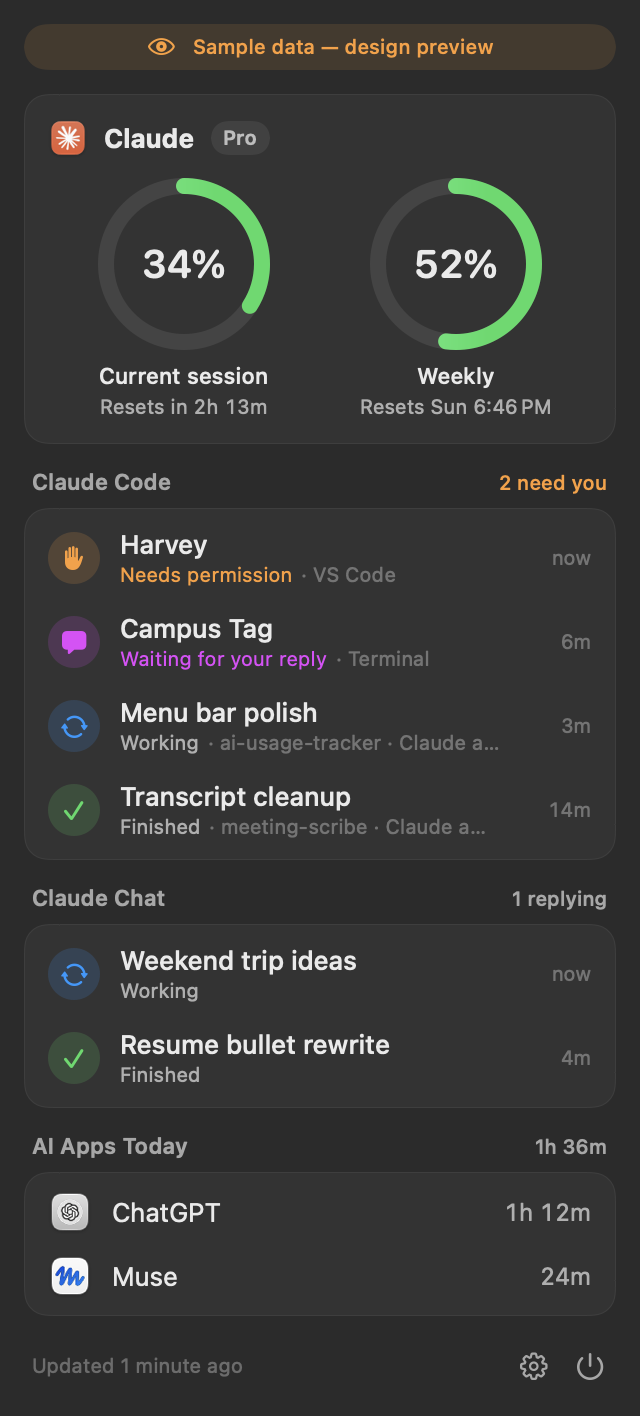
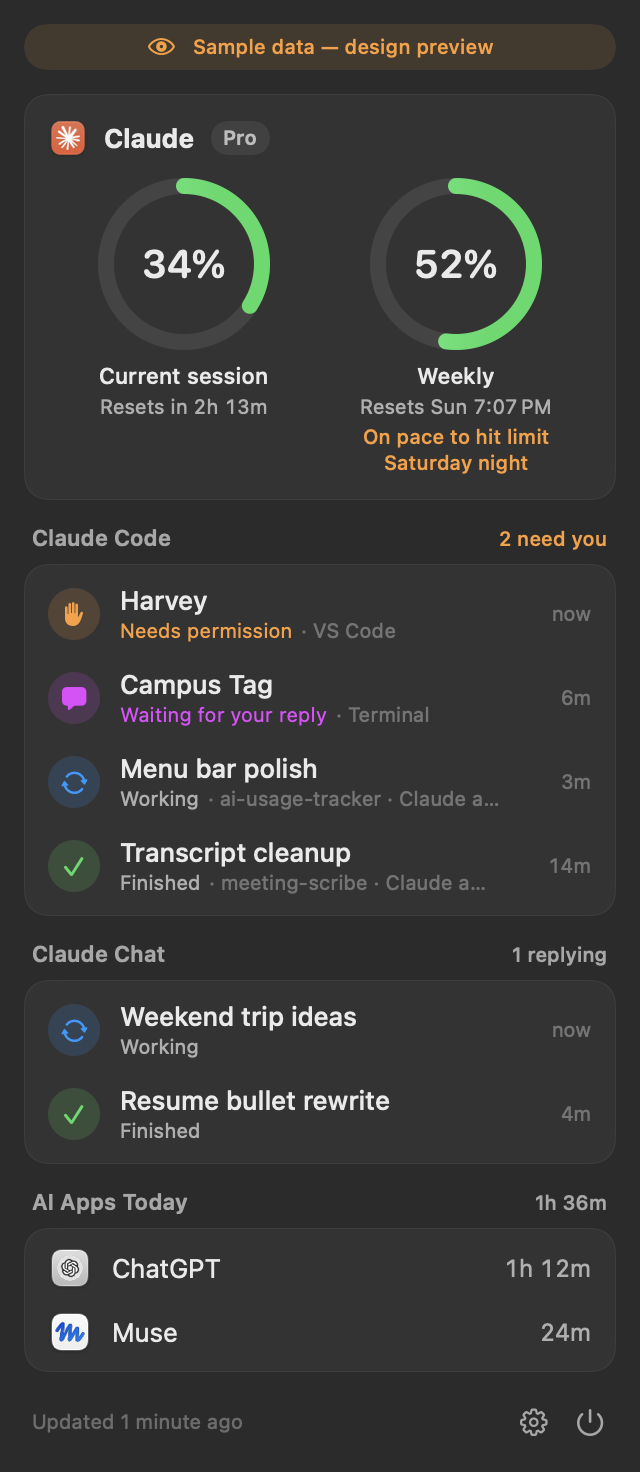
Weekly pace line under the weekly ring
Projects the average rate so far this week to the reset: 'On pace to last
until reset' (green) or 'On pace to hit limit Friday evening' (orange).
Quiet in the first 12 hours of the week and once at the limit. The math is
in UsagePace with its own checks.

diff --git a/Sources/AIUsageTracker/Dashboard/UsagePanel.swift b/Sources/AIUsageTracker/Dashboard/UsagePanel.swift
@@ -128,8 +128,10 @@ private struct ClaudeLimitCard: View {
                     LimitRing(
                         title: "Weekly",
                         window: weekly,
-                        resetText: { "Resets \($0.formatted(.dateTime.weekday(.abbreviated).hour().minute()))" }
+                        resetText: { "Resets \($0.formatted(.dateTime.weekday(.abbreviated).hour().minute()))" },
+                        paceText: { now in PaceLine(weekly, now: now) }
                     )
+                    .help("The pace line assumes you keep using Claude at your average rate so far this week")
                 }
             }
 
@@ -150,6 +152,8 @@ private struct LimitRing: View {
     let title: String
     let window: DashboardModel.ClaudeLimit.Window
     let resetText: (Date) -> String
+    /// An optional extra line under the reset time (the weekly pace).
+    var paceText: ((Date) -> PaceLine?)? = nil
 
     var body: some View {
         VStack(spacing: 10) {
@@ -157,11 +161,20 @@ private struct LimitRing: View {
             VStack(spacing: 2) {
                 Text(title)
                     .font(.subheadline.weight(.medium))
-                TimelineView(.everyMinute) { _ in
-                    Text(window.resetsAt.map(resetText) ?? "Not started yet")
-                        .font(.caption)
-                        .foregroundStyle(.secondary)
-                        .monospacedDigit()
+                TimelineView(.everyMinute) { context in
+                    VStack(spacing: 2) {
+                        Text(window.resetsAt.map(resetText) ?? "Not started yet")
+                            .font(.caption)
+                            .foregroundStyle(.secondary)
+                            .monospacedDigit()
+                        if let pace = paceText?(context.date) {
+                            Text(pace.text)
+                                .font(.caption.weight(.medium))
+                                .foregroundStyle(pace.tint)
+                                .multilineTextAlignment(.center)
+                                .fixedSize(horizontal: false, vertical: true)
+                        }
+                    }
                 }
             }
         }
@@ -222,6 +235,46 @@ private struct MessageCard<Actions: View>: View {
 extension MessageCard where Actions == EmptyView {
     init(symbol: String?, title: String, detail: String?) {
         self.init(symbol: symbol, title: title, detail: detail) { EmptyView() }
+    }
+}
+
+/// The weekly pace in words: "On pace to last until reset" (green) or
+/// "On pace to hit limit Friday morning" (orange).
+struct PaceLine {
+    let text: String
+    let tint: Color
+
+    init?(_ window: DashboardModel.ClaudeLimit.Window, now: Date) {
+        switch UsagePace.project(percent: window.percent, resetsAt: window.resetsAt, now: now) {
+        case nil:
+            return nil
+        case .onTrack?:
+            text = "On pace to last until reset"
+            tint = .green
+        case .willHitLimit(let date)?:
+            text = "On pace to hit limit \(Self.friendlyTime(date, now: now))"
+            tint = .orange
+        }
+    }
+
+    /// "this afternoon", "tomorrow morning", "Friday evening", "early Saturday".
+    static func friendlyTime(_ date: Date, now: Date, calendar: Calendar = .current) -> String {
+        let hour = calendar.component(.hour, from: date)
+        let part = switch hour {
+        case 5..<12: "morning"
+        case 12..<17: "afternoon"
+        case 17..<21: "evening"
+        default: "night"
+        }
+        if hour < 5 {
+            // Small hours read better as "early Saturday" than "Saturday night".
+            if calendar.isDate(date, inSameDayAs: now) { return "early this morning" }
+            if calendar.isDateInTomorrow(date) { return "early tomorrow" }
+            return "early \(date.formatted(.dateTime.weekday(.wide)))"
+        }
+        if calendar.isDate(date, inSameDayAs: now) { return part == "night" ? "tonight" : "this \(part)" }
+        if calendar.isDateInTomorrow(date) { return "tomorrow \(part)" }
+        return "\(date.formatted(.dateTime.weekday(.wide))) \(part)"
     }
 }
 

diff --git a/Tests/PaceCheck/main.swift b/Tests/PaceCheck/main.swift
@@ -1,0 +1,45 @@
+// Checks for UsagePace's weekly projection. Run with ./scripts/test.sh
+
+import Foundation
+
+var failures = 0
+@MainActor func check(_ name: String, _ ok: Bool, _ detail: String) {
+    if !ok { failures += 1 }
+    print("\(ok ? "PASS" : "FAIL")  \(name)  (\(detail))")
+}
+
+let now = Date(timeIntervalSince1970: 1_800_000_000)
+let day: TimeInterval = 24 * 3600
+func resets(inDays days: Double) -> Date { now.addingTimeInterval(days * day) }
+
+// Halfway through the week at 40% → about 80% by reset.
+let half = UsagePace.project(percent: 40, resetsAt: resets(inDays: 3.5), now: now)
+if case .onTrack(let p)? = half {
+    check("halfway at 40% is on track for 80%", abs(p - 80) < 0.01, "projected \(p)")
+} else { check("halfway at 40% is on track for 80%", false, "\(String(describing: half))") }
+
+// Halfway through at 60% → would hit 100% two-thirds of the way through the rest.
+let hot = UsagePace.project(percent: 60, resetsAt: resets(inDays: 3.5), now: now)
+if case .willHitLimit(let at)? = hot {
+    let hours = at.timeIntervalSince(now) / 3600
+    // 60% over 84h = 0.714%/h; 40% more takes 56h.
+    check("halfway at 60% hits the limit in 56 hours", abs(hours - 56) < 0.01, "\(hours)h")
+} else { check("halfway at 60% hits the limit in 56 hours", false, "\(String(describing: hot))") }
+
+// Exactly on pace for 100% at reset counts as hitting it (at reset time).
+let edge = UsagePace.project(percent: 50, resetsAt: resets(inDays: 3.5), now: now)
+if case .willHitLimit(let at)? = edge {
+    check("50% at halfway hits the limit right at reset", abs(at.timeIntervalSince(resets(inDays: 3.5))) < 1, "at reset")
+} else { check("50% at halfway hits the limit right at reset", false, "\(String(describing: edge))") }
+
+check("says nothing in the first 12 hours",
+      UsagePace.project(percent: 30, resetsAt: resets(inDays: 6.8), now: now) == nil, "nil")
+check("says nothing once at the limit",
+      UsagePace.project(percent: 100, resetsAt: resets(inDays: 2), now: now) == nil, "nil")
+check("says nothing before the window starts",
+      UsagePace.project(percent: 0, resetsAt: nil, now: now) == nil, "nil")
+check("zero usage is on track for 0%",
+      UsagePace.project(percent: 0, resetsAt: resets(inDays: 3), now: now) == .onTrack(projectedPercent: 0), "0%")
+
+print(failures == 0 ? "\nAll checks passed." : "\n\(failures) check(s) failed.")
+exit(failures == 0 ? 0 : 1)

diff --git a/Sources/AIUsageTracker/ClaudeLimit/UsagePace.swift b/Sources/AIUsageTracker/ClaudeLimit/UsagePace.swift
@@ -1,0 +1,34 @@
+import Foundation
+
+/// Projects the weekly limit forward: if you keep using Claude at the same average rate
+/// as so far this week, where will you be when it resets?
+///
+/// Pure math, no macOS calls, so the rule can be checked on its own (see Tests/PaceCheck).
+enum UsagePace: Equatable {
+    /// Your usage at reset if the current rate continues (under 100).
+    case onTrack(projectedPercent: Double)
+    /// At the current rate you'd reach 100% at this time, before the limit resets.
+    case willHitLimit(at: Date)
+
+    /// The weekly window's length.
+    static let weekLength: TimeInterval = 7 * 24 * 3600
+    /// Too early in the week to say anything useful (a busy first morning would look alarming).
+    static let minimumElapsed: TimeInterval = 12 * 3600
+
+    /// nil when there's nothing worth showing: the window hasn't started, it's too early
+    /// to judge, or you're already at the limit (the red ring says that).
+    static func project(percent: Double, resetsAt: Date?, now: Date = .now,
+                        window: TimeInterval = weekLength) -> UsagePace? {
+        guard let resetsAt, percent < 100 else { return nil }
+        let remaining = resetsAt.timeIntervalSince(now)
+        let elapsed = window - remaining
+        guard remaining > 0, elapsed >= minimumElapsed else { return nil }
+
+        let ratePerSecond = max(percent, 0) / elapsed
+        let projected = percent + ratePerSecond * remaining
+        guard projected >= 100, ratePerSecond > 0 else {
+            return .onTrack(projectedPercent: projected)
+        }
+        return .willHitLimit(at: now.addingTimeInterval((100 - percent) / ratePerSecond))
+    }
+}

diff --git a/README.md b/README.md
@@ -18,7 +18,7 @@ A native macOS menu bar app that shows how much of my Claude plan limit I've use
 ## What it does
 
 - **Menu bar ring** that fills up with your current 5-hour Claude usage and shifts from green to orange to red.
-- **Dropdown** with rings for the current session and the weekly limit, plus reset times.
+- **Dropdown** with rings for the current session and the weekly limit, plus reset times. Under the weekly ring, a pace line projects your average rate so far this week: "On pace to last until reset" in green, or "On pace to hit limit Friday evening" in orange. It stays quiet for the first 12 hours of the week.
 - **Claude Code sessions**: each open session's status (working, needs permission, waiting for your reply, finished), reported by Claude Code hooks. Works in the terminal, the VS Code extension, and the Claude desktop app's Code tab. Sessions in the Claude app are named by their title there ("Fix login bug"), with the project folder underneath; elsewhere they're named by project folder.
 - **Claude Chat**: regular chats (in the Claude app, on the web, or on your phone) show "Working" while Claude writes a reply and "Finished" for 10 minutes after. Tap one to open it in the Claude app.
 - **AI Apps Today**: time spent in other AI apps (ChatGPT, Muse, or any app you add), counted only while the app is in front and you're actually at the Mac (pauses when idle 2+ minutes, locked, or asleep). No special permissions needed.
